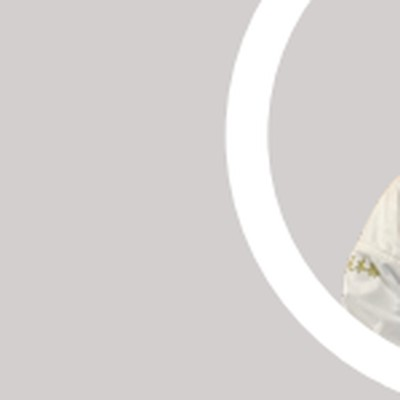
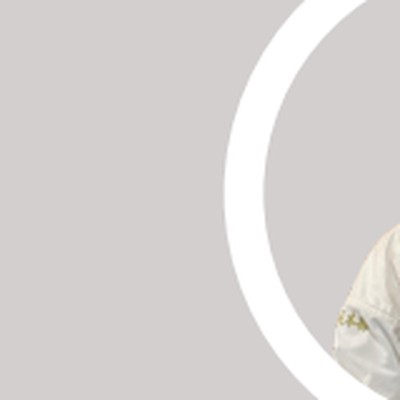
写真再クロップ+顔中心調整

Changed region(s): [[0.54, 0.39, 1.0, 1.0], [0.54, 0.0, 0.93, 0.36]]

diff --git a/about.html b/about.html
@@ -246,13 +246,13 @@
       <!-- 開祖・宗師 -->
       <div class="card-grid fade-in" style="margin-bottom: var(--space-2xl);">
         <div class="card card--instructor">
-          <img class="card__avatar" src="assets/images/instructors/hashiyama_kenryu.jpg" alt="枦山 拳龍" style="width: 120px; height: 120px; border-radius: 50%; object-fit: cover; margin: 0 auto var(--space-sm);">
+          <img class="card__avatar" src="assets/images/instructors/hashiyama_kenryu.jpg" alt="枦山 拳龍" style="width: 120px; height: 120px; border-radius: 50%; object-fit: cover; object-position: 40% 25%; margin: 0 auto var(--space-sm);">
           <h3 class="card__name">枦山 拳龍</h3>
           <span class="card__role">開祖（創師）・十段範士</span>
           <p class="card__text">防具付全日本空手道連盟副会長。2013年に楊心門総合武術協会を開設。2022年逝去。</p>
         </div>
         <div class="card card--instructor">
-          <img class="card__avatar" src="assets/images/instructors/minamitani_kenryu.jpg" alt="南谷 拳龍" style="width: 120px; height: 120px; border-radius: 50%; object-fit: cover; margin: 0 auto var(--space-sm);">
+          <img class="card__avatar" src="assets/images/instructors/minamitani_kenryu.jpg" alt="南谷 拳龍" style="width: 120px; height: 120px; border-radius: 50%; object-fit: cover; object-position: 45% 30%; margin: 0 auto var(--space-sm);">
           <h3 class="card__name">南谷 拳龍</h3>
           <span class="card__role">第弐代宗師・十段範士</span>
           <p class="card__text">防具付鹿児島県空手道連盟会長。全国大会一般軽量級組手4度優勝。</p>
@@ -262,32 +262,32 @@
       <!-- 師範・指導員 -->
       <div class="card-grid--3col card-grid fade-in">
         <div class="card card--instructor">
-          <img class="card__avatar" src="assets/images/instructors/kidosaki_akiyoshi.jpg" alt="城戸﨑 彰良" style="width: 120px; height: 120px; border-radius: 50%; object-fit: cover; margin: 0 auto var(--space-sm);">
+          <img class="card__avatar" src="assets/images/instructors/kidosaki_akiyoshi.jpg" alt="城戸﨑 彰良" style="width: 120px; height: 120px; border-radius: 50%; object-fit: cover; object-position: 60% 30%; margin: 0 auto var(--space-sm);">
           <h3 class="card__name">城戸﨑 彰良</h3>
           <span class="card__role">鹿屋地区本部長</span>
         </div>
         <div class="card card--instructor">
-          <img class="card__avatar" src="assets/images/instructors/taira_shizuo.jpg" alt="平良 静男" style="width: 120px; height: 120px; border-radius: 50%; object-fit: cover; margin: 0 auto var(--space-sm);">
+          <img class="card__avatar" src="assets/images/instructors/taira_shizuo.jpg" alt="平良 静男" style="width: 120px; height: 120px; border-radius: 50%; object-fit: cover; object-position: 50% 30%; margin: 0 auto var(--space-sm);">
           <h3 class="card__name">平良 静男</h3>
           <span class="card__role">首席師範</span>
         </div>
         <div class="card card--instructor">
-          <img class="card__avatar" src="assets/images/instructors/tanaka_yasuyuki.jpg" alt="田中 康之" style="width: 120px; height: 120px; border-radius: 50%; object-fit: cover; margin: 0 auto var(--space-sm);">
+          <img class="card__avatar" src="assets/images/instructors/tanaka_yasuyuki.jpg" alt="田中 康之" style="width: 120px; height: 120px; border-radius: 50%; object-fit: cover; object-position: 45% 30%; margin: 0 auto var(--space-sm);">
           <h3 class="card__name">田中 康之</h3>
           <span class="card__role">理事長・錦江支部長</span>
         </div>
         <div class="card card--instructor">
-          <img class="card__avatar" src="assets/images/instructors/oozutsumi_saiske.jpg" alt="大堤 斉亮" style="width: 120px; height: 120px; border-radius: 50%; object-fit: cover; margin: 0 auto var(--space-sm);">
+          <img class="card__avatar" src="assets/images/instructors/oozutsumi_saiske.jpg" alt="大堤 斉亮" style="width: 120px; height: 120px; border-radius: 50%; object-fit: cover; object-position: 55% 30%; margin: 0 auto var(--space-sm);">
           <h3 class="card__name">大堤 斉亮</h3>
           <span class="card__role">鹿屋武道館・メルヘン支部長</span>
         </div>
         <div class="card card--instructor">
-          <img class="card__avatar" src="assets/images/instructors/minamitani_tomohiro.jpg" alt="南谷 知宏" style="width: 120px; height: 120px; border-radius: 50%; object-fit: cover; margin: 0 auto var(--space-sm);">
+          <img class="card__avatar" src="assets/images/instructors/minamitani_tomohiro.jpg" alt="南谷 知宏" style="width: 120px; height: 120px; border-radius: 50%; object-fit: cover; object-position: 55% 30%; margin: 0 auto var(--space-sm);">
           <h3 class="card__name">南谷 知宏</h3>
           <span class="card__role">笠之原支部長</span>
         </div>
         <div class="card card--instructor">
-          <img class="card__avatar" src="assets/images/instructors/tanabe_masaki.jpg" alt="田邉 正輝" style="width: 120px; height: 120px; border-radius: 50%; object-fit: cover; margin: 0 auto var(--space-sm);">
+          <img class="card__avatar" src="assets/images/instructors/tanabe_masaki.jpg" alt="田邉 正輝" style="width: 120px; height: 120px; border-radius: 50%; object-fit: cover; object-position: 55% 30%; margin: 0 auto var(--space-sm);">
           <h3 class="card__name">田邉 正輝</h3>
           <span class="card__role">佐多支部長</span>
         </div>
